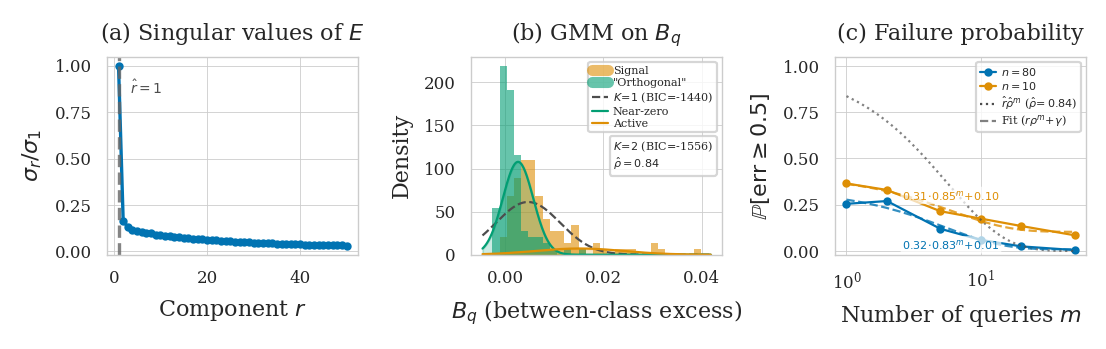
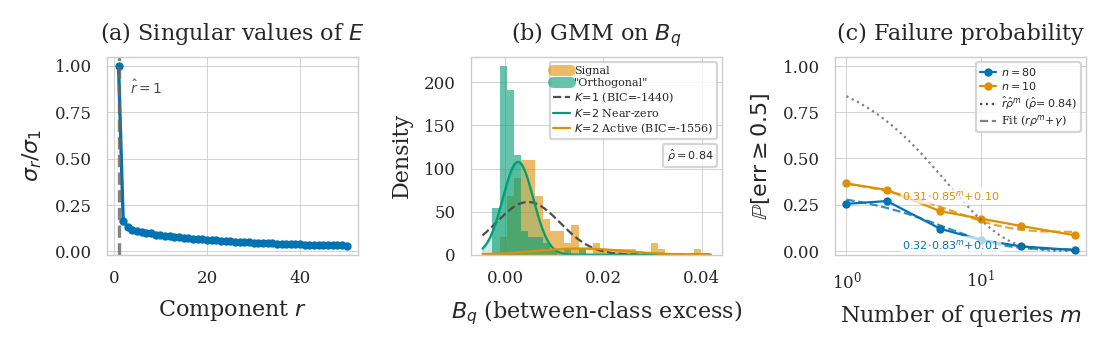
Move K=2 into main legend alongside K=1 in 3(b)

Changed region(s): [[0.4919, 0.1719, 0.6456, 0.5158]]

diff --git a/bbo/plotting/system_prompt_plots.py b/bbo/plotting/system_prompt_plots.py
@@ -127,16 +127,14 @@ def plot_figure3_system_prompt(
                 Line2D([0], [0], color="0.3", linestyle="--", lw=0.8,
                        label=f"$K\\!=\\!1$ (BIC={bic1:.0f})"),
                 Line2D([0], [0], color=PALETTE[2], linestyle="-", lw=0.8,
-                       label=f"Near-zero"),
+                       label=f"$K\\!=\\!2$ Near-zero"),
                 Line2D([0], [0], color=PALETTE[1], linestyle="-", lw=0.8,
-                       label=f"Active")]
+                       label=f"$K\\!=\\!2$ Active (BIC={bic2:.0f})")]
     leg1 = ax_gmm.legend(handles=leg_main, loc="upper right", fontsize=4)
     ax_gmm.add_artist(leg1)
 
     # ρ̂ legend (center right)
     leg_rho = [Line2D([], [], linestyle="none",
-                      label=f"$K\\!=\\!2$ (BIC={bic2:.0f})"),
-               Line2D([], [], linestyle="none",
                       label=f"$\\hat{{\\rho}} = {rho_hat:.2f}$")]
     ax_gmm.legend(handles=leg_rho, loc="center right", fontsize=4,
                   handlelength=0, handletextpad=0)
